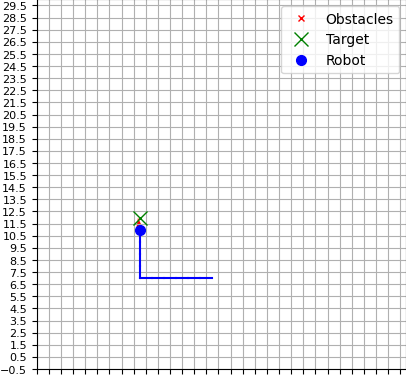
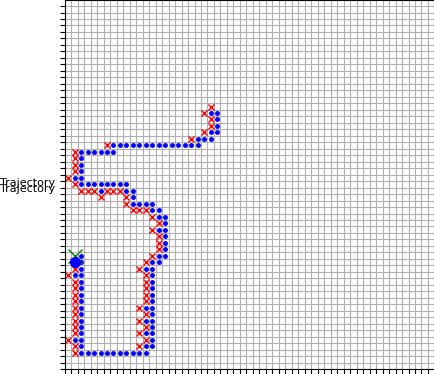
use dictionary for grid

diff --git a/simulation/controllers/agent_controller/agent_controller.py b/simulation/controllers/agent_controller/agent_controller.py
@@ -23,21 +23,14 @@ def decode_base64(base64_string):
 
 def show_grid(
     ax,
-    density,
     orientation,
     current_grid_pos,
     goal,
     path,
-    trajectory,
     grid,
 ):
 
     ax.clear()
-    ax.plot(
-        np.zeros((density, density)),
-        "wo",
-        markersize=0,
-    )
 
     p = np.array(path)
     if len(p) > 0:
@@ -48,15 +41,21 @@ def show_grid(
             label="Waypoints",
             markersize=5,
         )
-
-    obstacles = np.array(np.where(grid == 1)).transpose()
-    ax.plot(
-        obstacles[:, 0],
-        obstacles[:, 1],
-        "rx",
-        label="Obstacles",
-        markersize=5,
-    )
+    density = 0
+    for point, value in grid.items():
+        labels = {
+            1: "Obstacles",
+            -1: "Trajectory",
+        }
+        markers = {1: "rx", -1: "b."}
+        ax.plot(
+            point[0],
+            point[1],
+            markers.get(value),
+            labels.get(value),
+            markersize=5,
+        )
+        density = np.max(np.abs([density, *point, *goal, *current_grid_pos]))
 
     ax.plot(
         goal[0],
@@ -66,18 +65,6 @@ def show_grid(
         markersize=10,
     )
 
-    prev_step = None
-    for step in trajectory[::-1]:
-        if prev_step is None:
-            prev_step = step
-        ax.plot(
-            (step[0], prev_step[0]),  # X values
-            (step[1], prev_step[1]),  # Y values
-            linestyle="-",  # Solid line connecting points
-            color="b",  # Optional: line color, e.g., blue
-        )
-        prev_step = step
-
     ax.plot(
         current_grid_pos[0],
         current_grid_pos[1],
@@ -85,6 +72,7 @@ def show_grid(
         label="Robot",
         markersize=7,
     )
+
     length = 1
     O_radians = np.deg2rad(orientation)
     x, y = current_grid_pos[0], current_grid_pos[1]
@@ -104,18 +92,21 @@ def show_grid(
     )
 
     ax.set_aspect("equal")
-    # ax.axis('scaled')
-    ax.legend()
+    # ax.legend()
+
+    start,end=-(density+0.5),(density+0.5)
+
     plt.xticks(
-        np.arange(-0.5, density, 1),
+        np.arange(start,end, 1),
         labels=[],
     )
     plt.yticks(
-        np.arange(-0.5, density, 1),
+        np.arange(start,end, 1),
         fontsize=8,
     )
-    ax.set_xlim(-0.5, density)
-    ax.set_ylim(-0.5, density)
+    ax.set_xlim(start,end,)
+    ax.set_ylim(start,end,)
+
     ax.grid(True)
 
     ax.figure.savefig(
@@ -195,26 +186,31 @@ class AgentContoller:
         target = self.target
 
         kind = 4
-        density = 30
-        scale = 1 / density
-        grid = np.zeros((density, density))
-        trajectory = []
 
-        offset = 0.5
+        scale = 1 / 60
+        grid = {}
+        limits = [(-15, 15), (-15, 15)]
 
-        current_grid_pos, robot_rem = utils.apply_transformation(
+        offset = 0.0
+
+        current_grid_pos, robot_rem = utils.point_to_index(
             initial_position,
             offset=offset,
             scale=scale,
         )
-        goal, target_rem = utils.apply_transformation(
+        goal, target_rem = utils.point_to_index(
             target,
             offset=offset,
             scale=scale,
         )
 
-        
-        path = utils.a_star(current_grid_pos, goal, grid, kind)
+        path = utils.a_star(
+            current_grid_pos,
+            goal,
+            grid,
+            kind,
+            # limits=limits,
+        )
 
         if len(path) == 0:
             print("No path found")
@@ -230,18 +226,16 @@ class AgentContoller:
 
         render = lambda: show_grid(
             ax,
-            density,
             self.control.orientation,
             current_grid_pos,
             goal,
             path,
-            trajectory,
             grid,
         )
 
         while subGoal is not None:
             # render()
-            subTarget = utils.revert_transformation(
+            subTarget = utils.index_to_point(
                 subGoal,
                 offset,
                 scale,
@@ -255,7 +249,7 @@ class AgentContoller:
             alin_thres = 5.0 / 180
             x, y = self.control.x, self.control.y
 
-            current_grid_pos, robot_rem = utils.apply_transformation(
+            current_grid_pos, robot_rem = utils.point_to_index(
                 [x, y],
                 offset=offset,
                 scale=scale,
@@ -269,14 +263,14 @@ class AgentContoller:
 
             hasReachedSubGoal = (
                 posError < posThres or subGoal == current_grid_pos
-            ) and grid[subGoal] != 1
+            ) and grid.get(subGoal) != 1
 
             if np.abs(alignment) >= 170 / 180:
                 print("reverse")
                 self.control.move(-1, -1)
-                continue
+                # continue
 
-            if np.abs(alignment) >= alin_thres and not hasReachedSubGoal:
+            elif np.abs(alignment) >= alin_thres and not hasReachedSubGoal:
                 factor = alignment / np.abs(alignment)
                 self.control.move(-1 * factor, 1 * factor)
                 continue
@@ -286,19 +280,24 @@ class AgentContoller:
                     subGoal = None
                     continue
                 grid[subGoal] = -1
-                trajectory.append(subGoal)
                 achievedSubGoal = subGoal
                 subGoal = path.pop(0)
                 continue
 
-            if np.sum(obstacles) > 0:
+            if (
+                self.control.isReversing == True
+                and obstacles[1] == 1
+                or self.control.isReversing == False
+                and obstacles[0] == 1
+            ):
 
                 self.control.motor_stop()
 
-                if subGoal != goal and grid[subGoal] != 1:
-                    if grid[subGoal] == -1:
+                if subGoal != goal and grid.get(subGoal) != 1:
+                    if grid.get(subGoal) == -1:
                         print("will override past position", subGoal)
-                    grid[subGoal] = obstacles[0]
+
+                    grid[subGoal] = 1
 
                 # sub_moves = utils.generate_sub_moves(current_grid_pos, subGoal)
 
@@ -311,7 +310,13 @@ class AgentContoller:
                 #         grid[sub_moves[:, 0], sub_moves[:, 1]] = 1
                 #         print("Added sub moves ", sub_moves)
 
-                path = utils.a_star(achievedSubGoal, goal, grid, kind)
+                path = utils.a_star(
+                    achievedSubGoal,
+                    goal,
+                    grid,
+                    kind,
+                    # limits=limits,
+                )
 
                 if len(path) == 0:
                     print("No path found")
@@ -324,7 +329,8 @@ class AgentContoller:
                 print("avoid")
                 continue
 
-            self.control.move(1, 1)
+            if not self.control.isReversing:
+                self.control.move(1, 1)
 
         render()
         self.control.motor_stop()

diff --git a/simulation/controllers/agent_controller/robot_control.py b/simulation/controllers/agent_controller/robot_control.py
@@ -67,6 +67,7 @@ class RobotControl(RobotBase):
 
     gps: GPS
     compass: Compass
+    isReversing:bool=False
 
     def __init__(self, robot: Supervisor, speed=1):
         super().__init__(
@@ -76,6 +77,7 @@ class RobotControl(RobotBase):
         )
         self.speed = speed
         self.robot = robot
+        self.isReversing=False
 
         left_wheel: Motor = robot.getDevice("left wheel motor")
         right_wheel: Motor = robot.getDevice("right wheel motor")
@@ -122,6 +124,7 @@ class RobotControl(RobotBase):
         self.right_wheel.setVelocity(
             np.clip(right_velocity * self.speed, -max_v, max_v)
         )
+        self.isReversing=(left_velocity,right_velocity)==(-1,-1)
         self.robot_step()
 
     def motor_rotate_left(self):
@@ -140,12 +143,7 @@ class RobotControl(RobotBase):
         self.robot.step(timestep)
 
     def detect_obstacles(self):
-        sensor_tags = [
-            "ps6",
-            "ps7",
-            "ps0",
-            "ps1",
-        ][::-1]
+       
 
         (0.03, 234.93, 0.0241),
         (0.04, 158.03, 0.0287),
@@ -153,24 +151,34 @@ class RobotControl(RobotBase):
         (0.06, 104.09, 0.03065),
         (0.07, 67.19, 0.04897),
 
-        thresholds = [250, 100, 100, 250]
+        thresholds = {
+            "ps6": 250,
+            "ps7": 100,
+            "ps0": 100,
+            "ps1": 250,
+            "ps3":100, 
+            "ps4":100,
+        }
 
         values = {}
-        s = []
+        actualValues = []
 
-        for tag, thres in zip(sensor_tags, thresholds):
+        for tag, thres in thresholds.items():
             ps = self.robot.getDevice(tag)
             ps.enable(1)
             self.robot.step()
             value = ps.getValue()
             ps.disable()
-            s.append(value)
-
+            actualValues.append(value)
             values[tag] = 1 if value >= thres else 0
-        detected_obs = [0]
+        
+        detected_obs = [0,0]
 
         # front
         if values["ps7"] or values["ps0"] or (values["ps6"] and values["ps1"]):
             detected_obs[0] = 1
-
-        return detected_obs[::-1]
+        # back
+        if values["ps3"] or values["ps4"]:
+            detected_obs[1] = 1
+        
+        return detected_obs

diff --git a/simulation/controllers/agent_controller/utils.py b/simulation/controllers/agent_controller/utils.py
@@ -177,7 +177,7 @@ def get_alignment_to_target(orientation, current_coordinate, destination_coordin
     return np.degrees(theta) - orientation
 
 
-def apply_transformation(cord, offset=0, scale=1):
+def point_to_index(cord, offset=0, scale=1):
     x, y = cord
 
     pos = (int((x + offset) // scale), int((y + offset) // scale))
@@ -186,7 +186,7 @@ def apply_transformation(cord, offset=0, scale=1):
     return pos, remainders
 
 
-def revert_transformation(cord, offset=0, scale=1, remainders=(0, 0)):
+def index_to_point(cord, offset=0, scale=1, remainders=(0, 0)):
     xx = (cord[0] * scale) - offset + remainders[0]
     yy = (cord[1] * scale) - offset + remainders[1]
     return xx, yy
@@ -223,10 +223,13 @@ def generate_sub_moves(start, target):
 
 
 # A* Algorithm
-def a_star(start, goal, grid, kind):
-    # Helper functions
-
-    grid_size = grid.shape
+def a_star(
+    start,
+    goal,
+    grid,
+    kind,
+    limits=[(-float("inf"), float("inf")), (-float("inf"), float("inf"))],
+):
 
     def heuristic1(a, b):
         return np.sqrt((a[0] - b[0]) ** 2 + (a[1] - b[1]) ** 2)
@@ -238,10 +241,11 @@ def a_star(start, goal, grid, kind):
         valid_neighbors = []
         for dx, dy in neighbors:
             newx, newy = pos[0] + dx, pos[1] + dy
+
             if (
-                0 <= newx < grid_size[0]
-                and 0 <= newy < grid_size[1]
-                and grid[newx, newy] != 1
+                limits[0][0] <= newx < limits[0][1]
+                and limits[1][0] <= newy < limits[1][1]
+                and grid.get((newx, newy)) != 1
             ):
                 valid_neighbors.append((newx, newy))
         return valid_neighbors
@@ -272,13 +276,14 @@ def a_star(start, goal, grid, kind):
             (1, -1),
         ],
     }
+
     movement_kind = {
         4: heuristic2,  # 4-way movement
         8: heuristic1,
     }
 
     heuristic = movement_kind[kind]
-    
+
     while frontier:
         current_cost, current = heapq.heappop(frontier)
 
